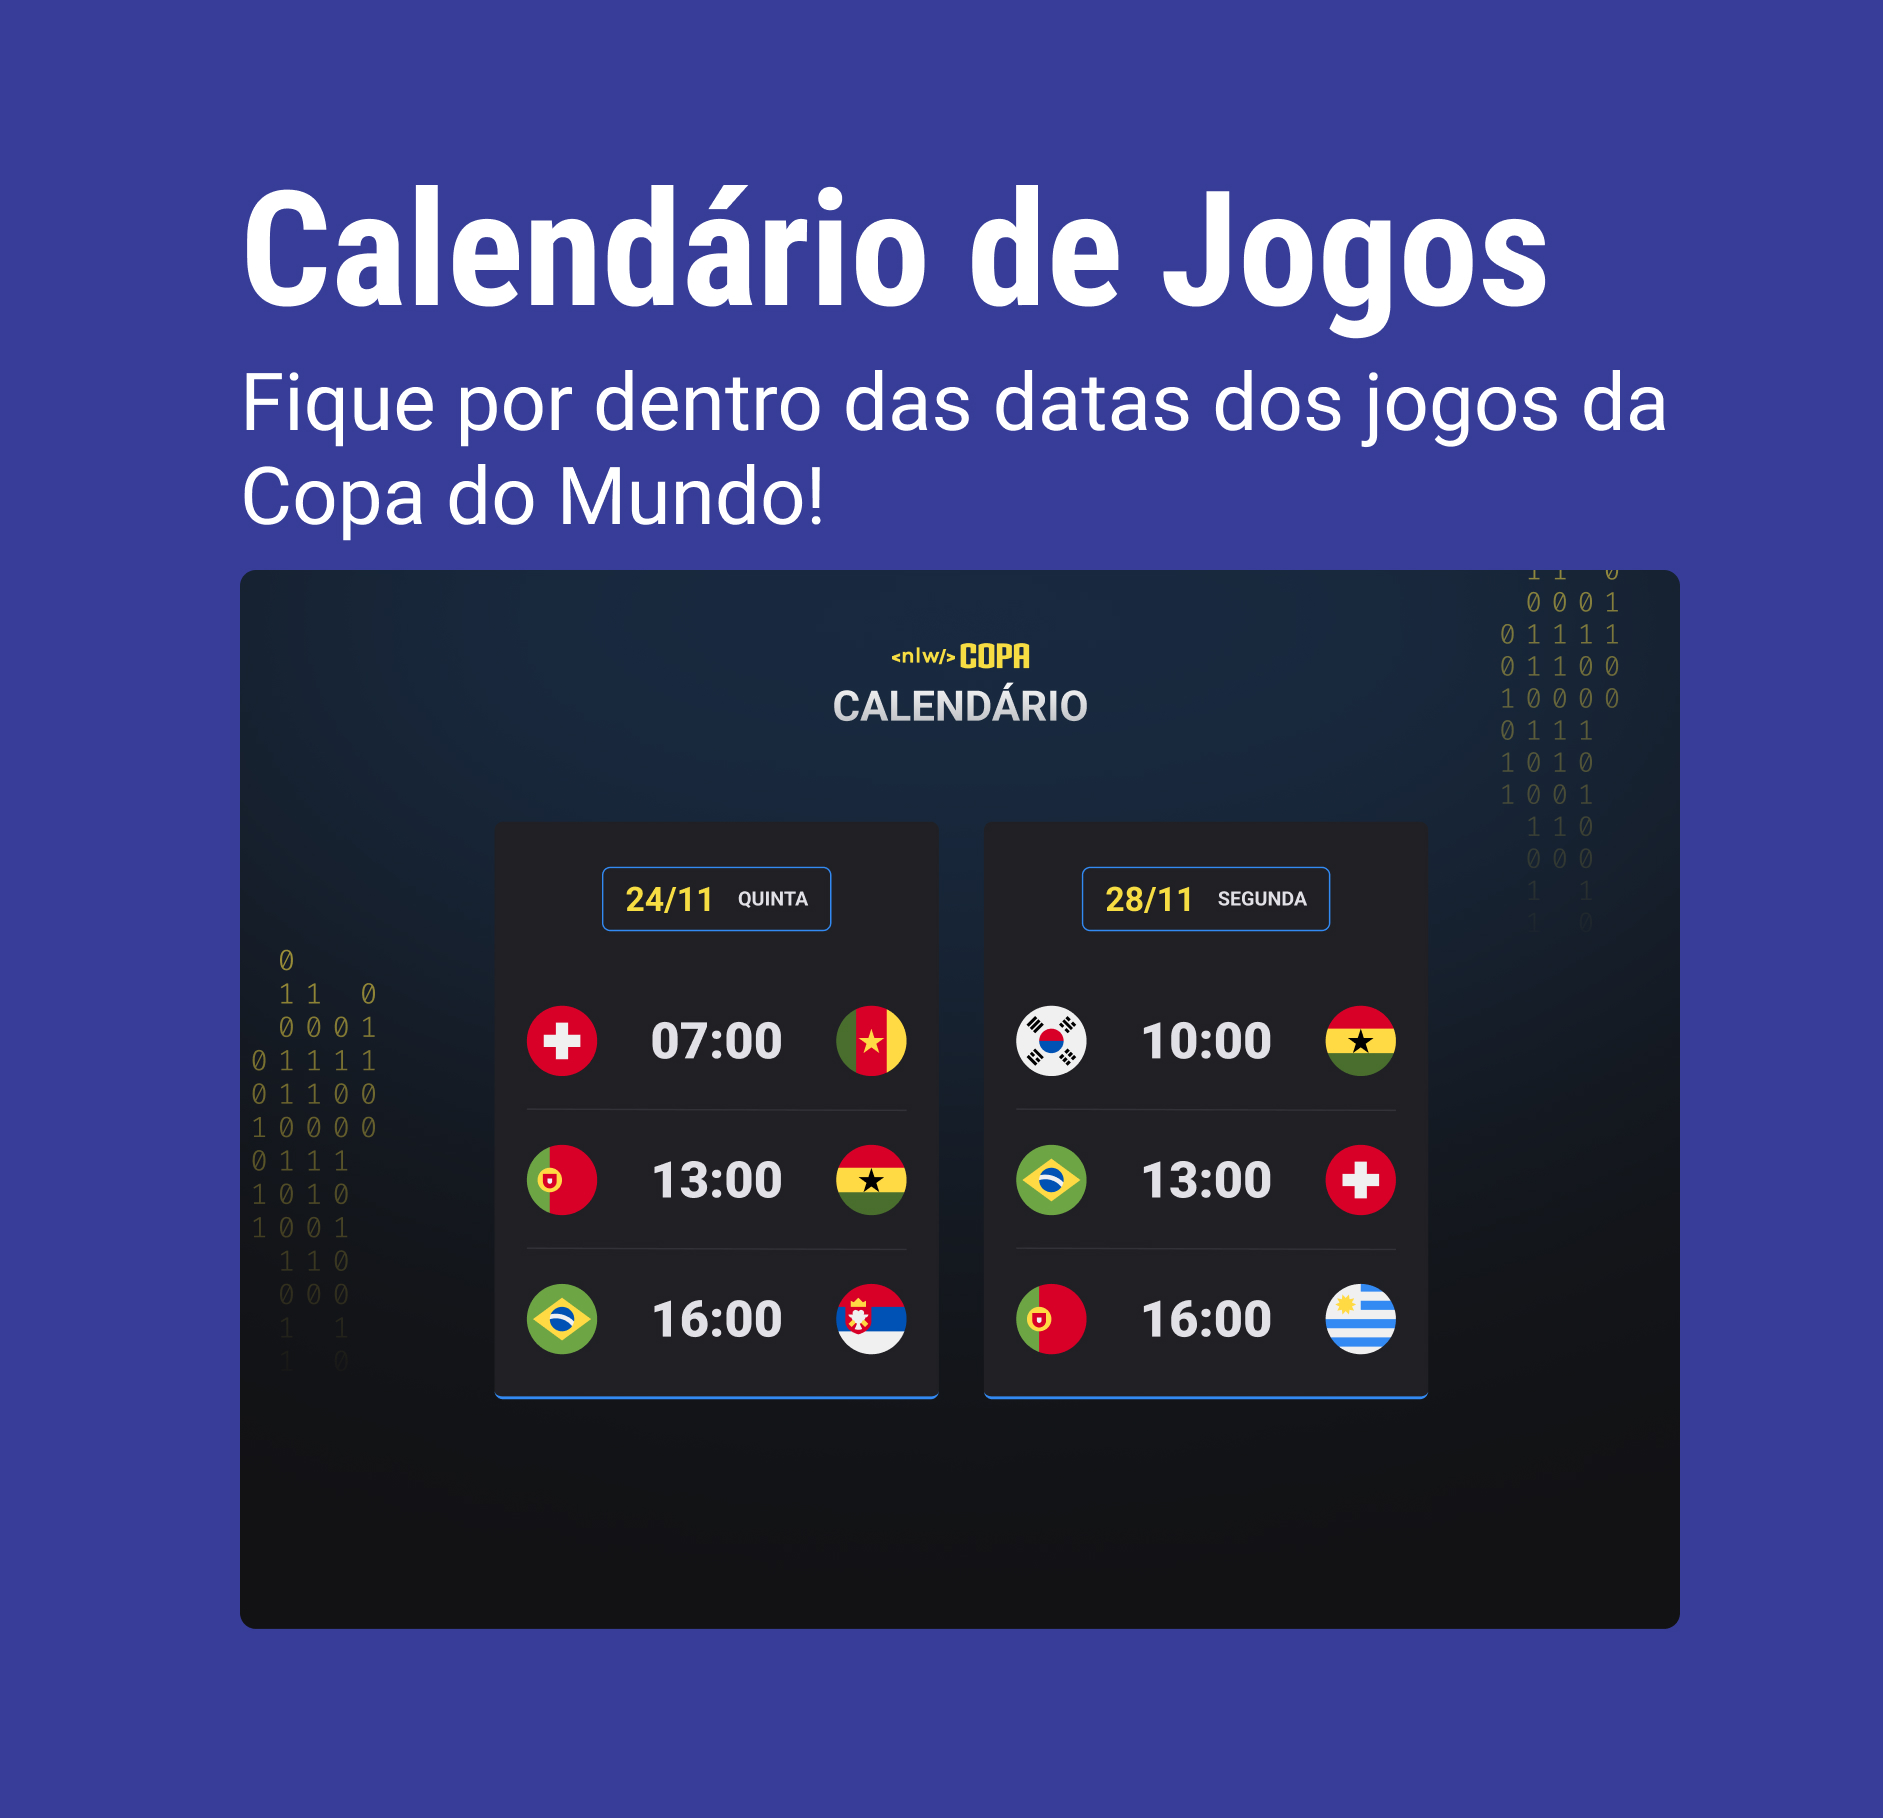
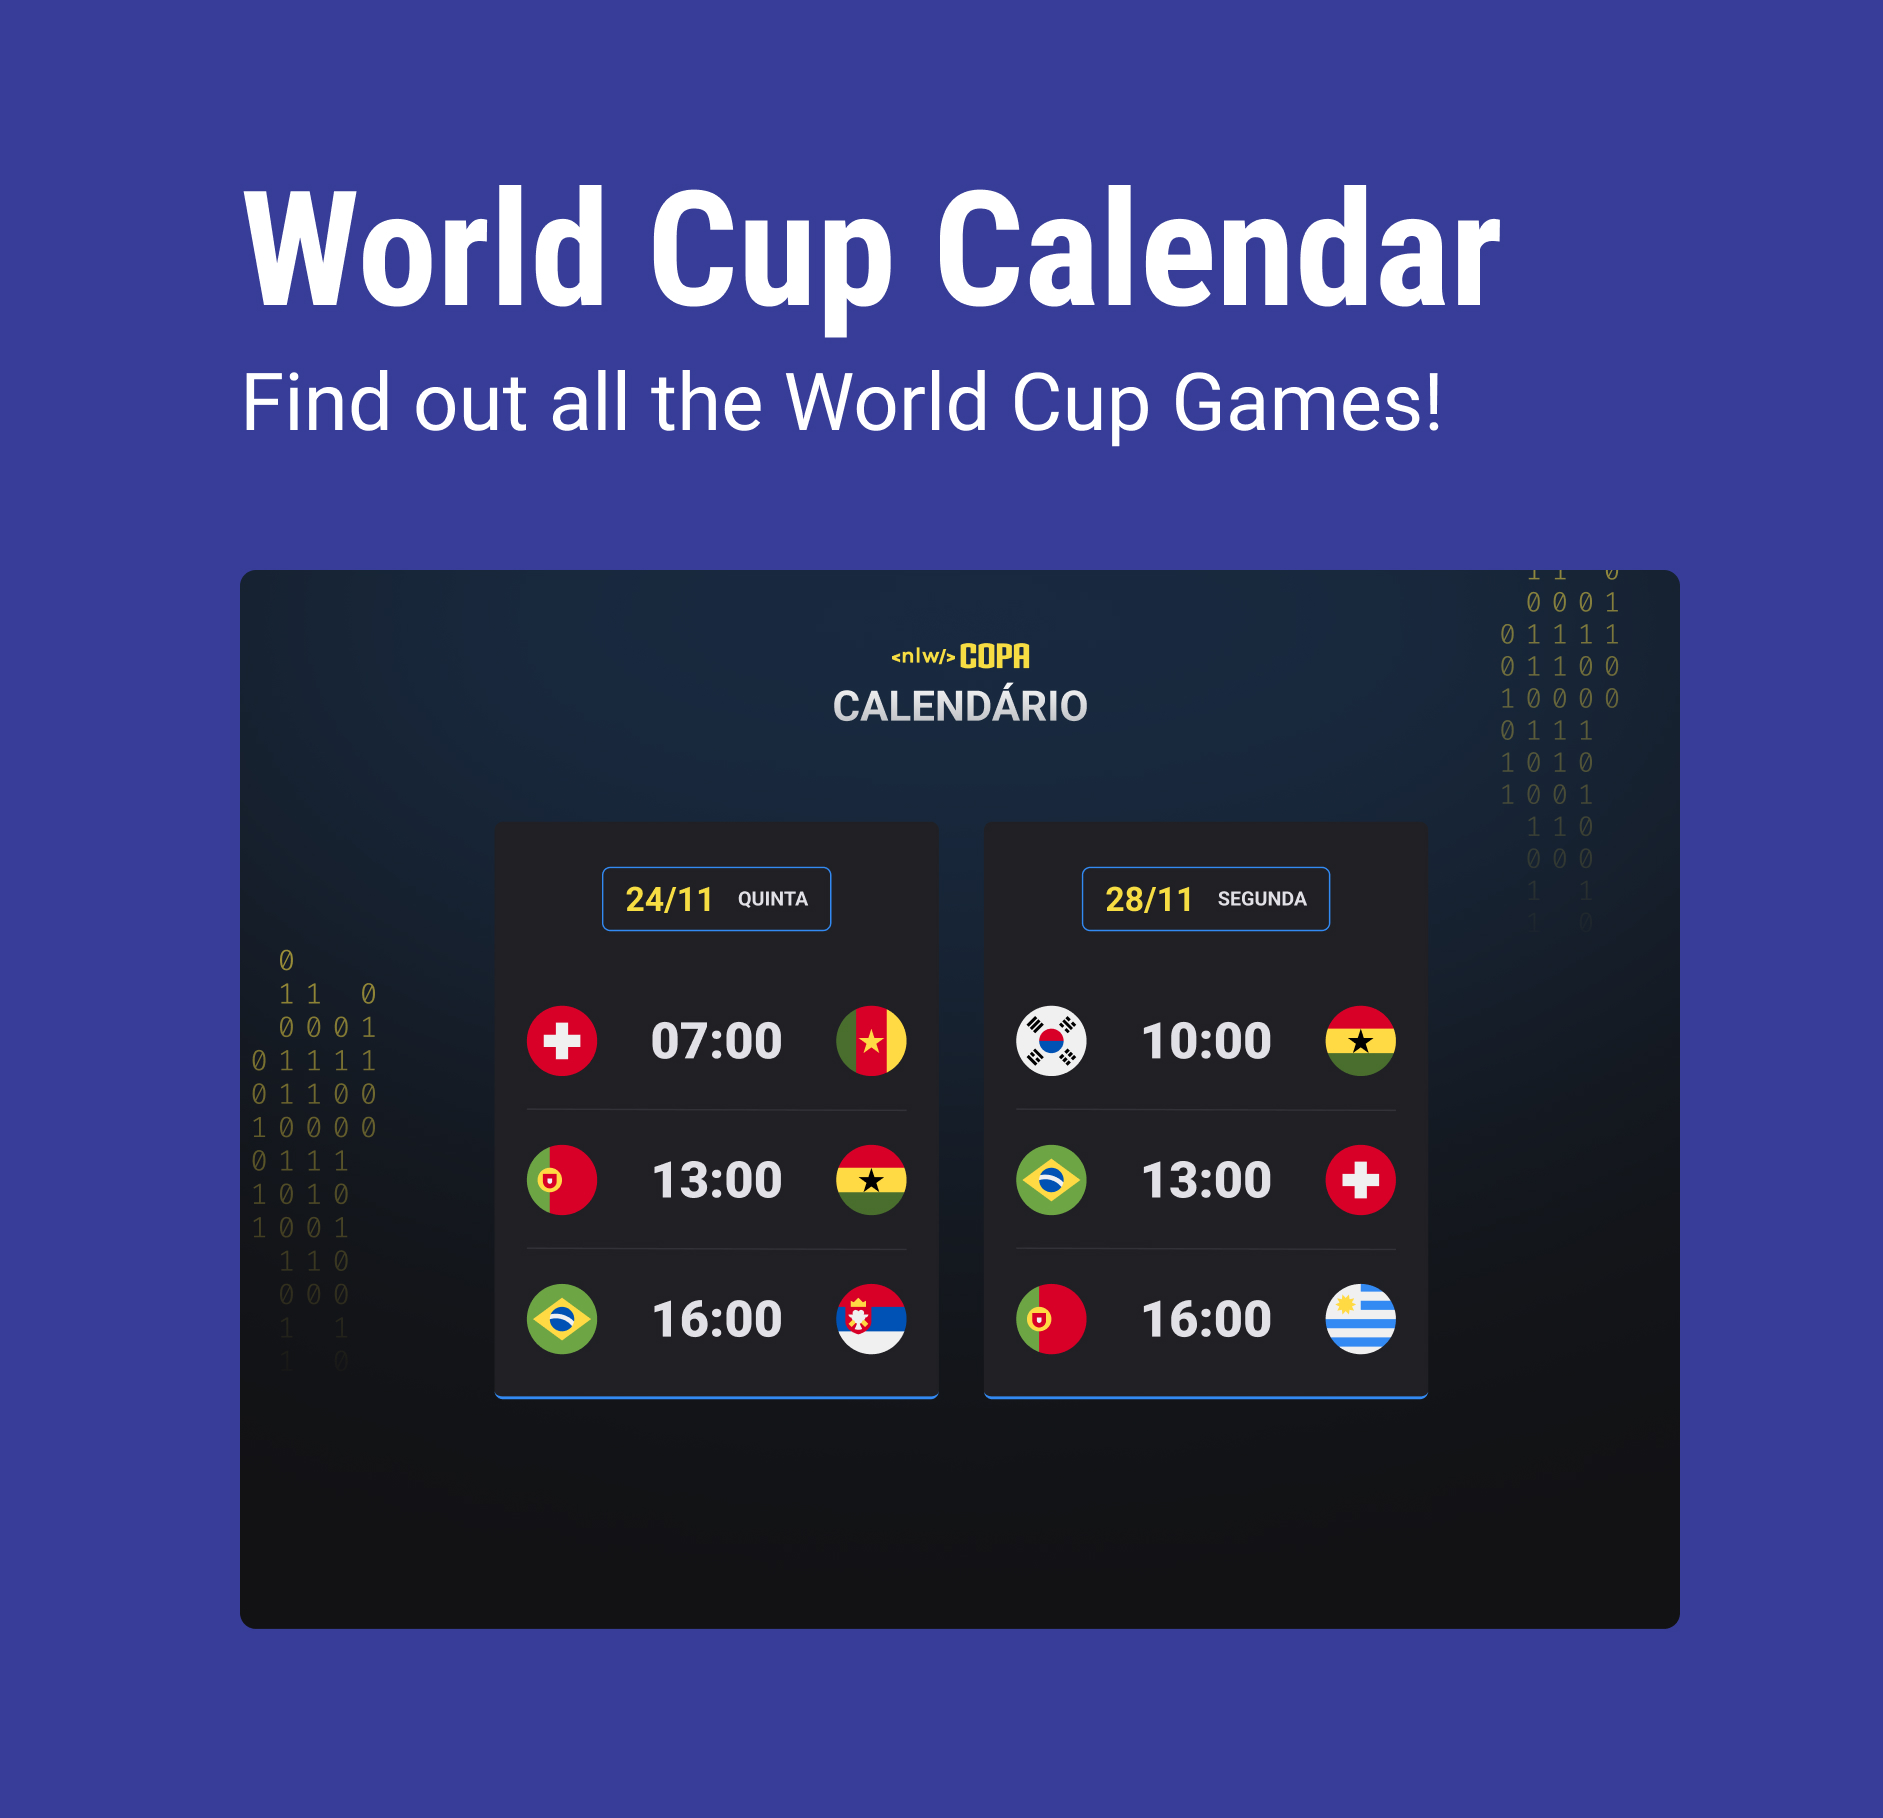
edit the README.mg

Changed region(s): [[0.1232, 0.0924, 0.8933, 0.308]]

diff --git a/README.md b/README.md
@@ -1,14 +1,14 @@
-<h1 align="center"> Calendário da Copa do Mundo </h1>
+<h1 align="center"> World Cup Calendar </h1>
 
 <p align="center">
-Fique por dentro de todos os jogos da Copa Do Mundo de 2022. Saiba dos times e do horário de cada jogo.
+Find out all the 2022 World Cup games. Find out the schedule and the result of each match.
 </p>
 
 <p align="center">
-  <a href="#-tecnologias">Tecnologias</a>&nbsp;&nbsp;&nbsp;|&nbsp;&nbsp;&nbsp;
-  <a href="#-projeto">Projeto</a>&nbsp;&nbsp;&nbsp;|&nbsp;&nbsp;&nbsp;
+  <a href="#-tecnologias">Technologies</a>&nbsp;&nbsp;&nbsp;|&nbsp;&nbsp;&nbsp;
+  <a href="#-projeto">Project</a>&nbsp;&nbsp;&nbsp;|&nbsp;&nbsp;&nbsp;
   <a href="#-layout">Layout</a>&nbsp;&nbsp;&nbsp;|&nbsp;&nbsp;&nbsp;
-  <a href="#memo-licença">Licença</a>
+  <a href="#memo-licença">License</a>
 </p>
 
 <p align="center">
@@ -18,28 +18,28 @@ Fique por dentro de todos os jogos da Copa Do Mundo de 2022. Saiba dos times e d
 <br>
 
 <p align="center">
-  <img alt="projeto" src="./.github/preview.jpg" width="100%">
+  <img alt="project" src="./.github/preview.jpg" width="100%">
 </p>
 
 ## 🚀 Tecnologias
 
-Esse projeto foi desenvolvido com as seguintes tecnologias:
+This project was created with the following technologies:
 
-- HTML e CSS
+- HTML and CSS
 - JavaScript
-- Git e Github
+- Git and Github
 
-## 💻 Projeto
-O Calendário da Copa é um projeto que mostra os jogos da Copa de 2022.
+## 💻 Project
+The World Cup Calendar is a project that shows the World Cup 2022 games.
 
 ## 🔖 Layout
 
-Você pode visualizar o layout do projeto através [DESSE LINK](https://www.figma.com/file/BoTFelA4C0HBYa0bOpjgX9/Calend%C3%A1rio-de-Jogos-(Community)/duplicate). É necessário ter conta no [Figma](https://figma.com) para acessá-lo.
+You can view the project's layout trough [this link](https://www.figma.com/file/BoTFelA4C0HBYa0bOpjgX9/Calend%C3%A1rio-de-Jogos-(Community)/duplicate). It's necessary have a [Figma](https://figma.com) account to see this.
 
-## :memo: Licença
+## :memo: License
 
-Esse projeto está sob a licença MIT.
+This project is under the MIT's license.
 
 ---
 
-Feito por Felipe Dantas
+Made by Felipe Dantas
